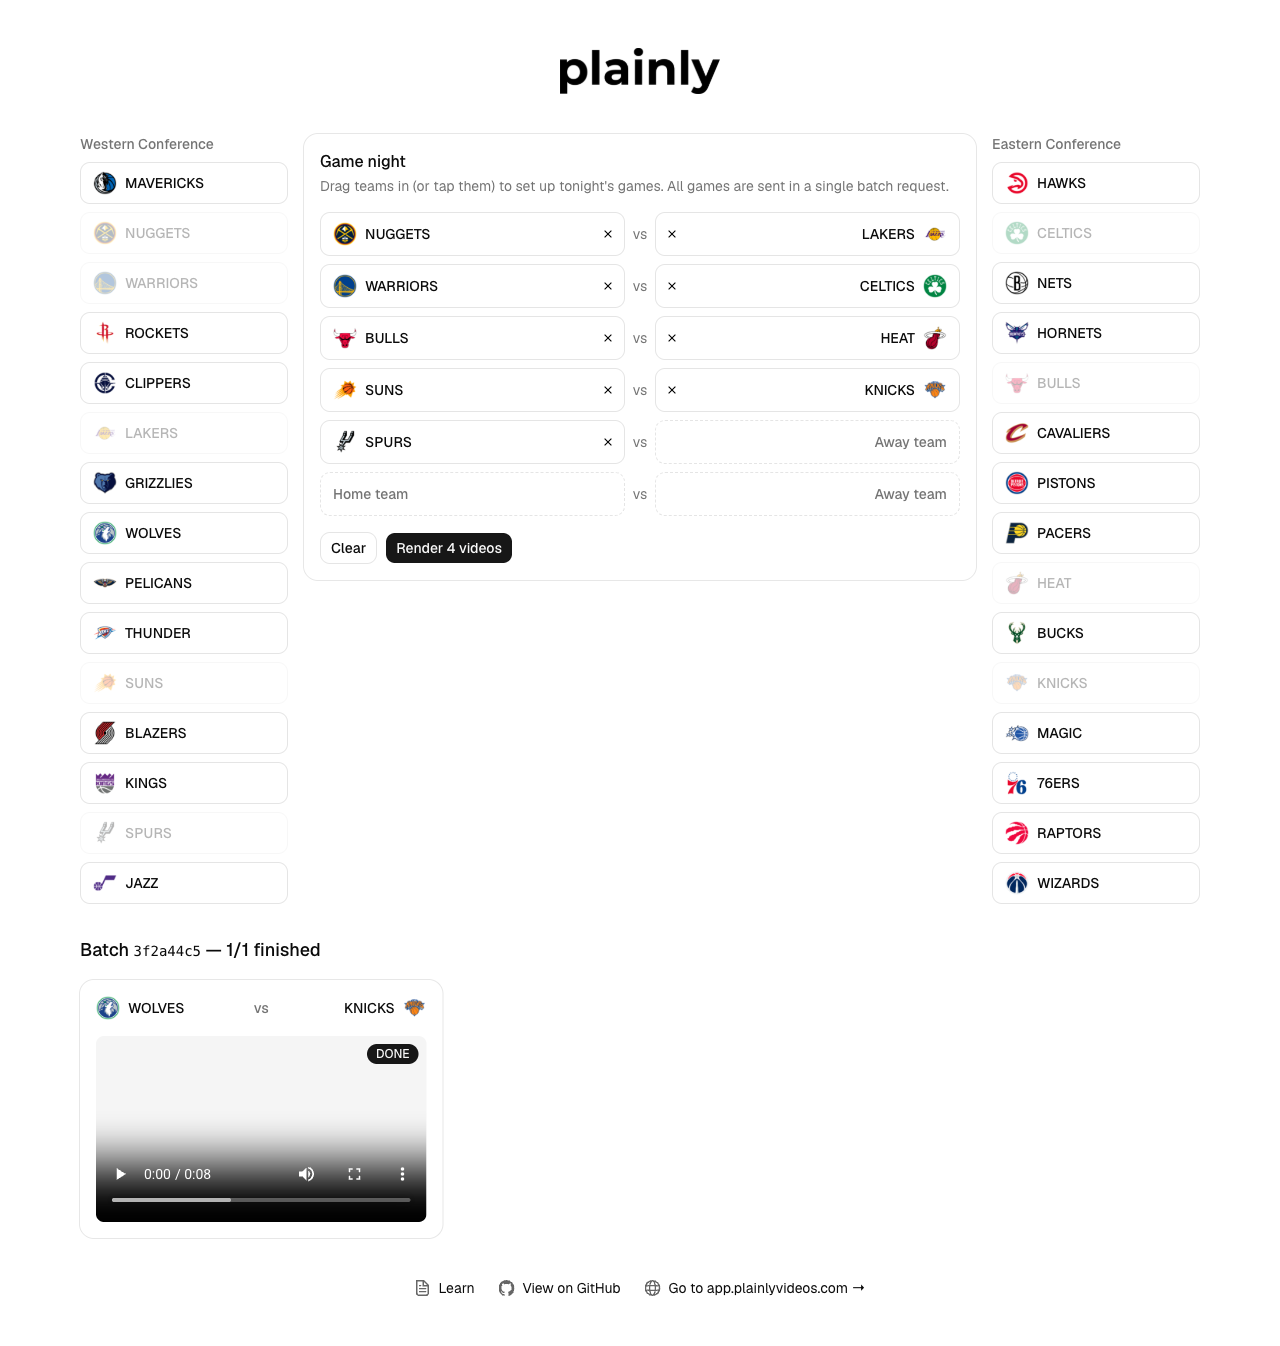
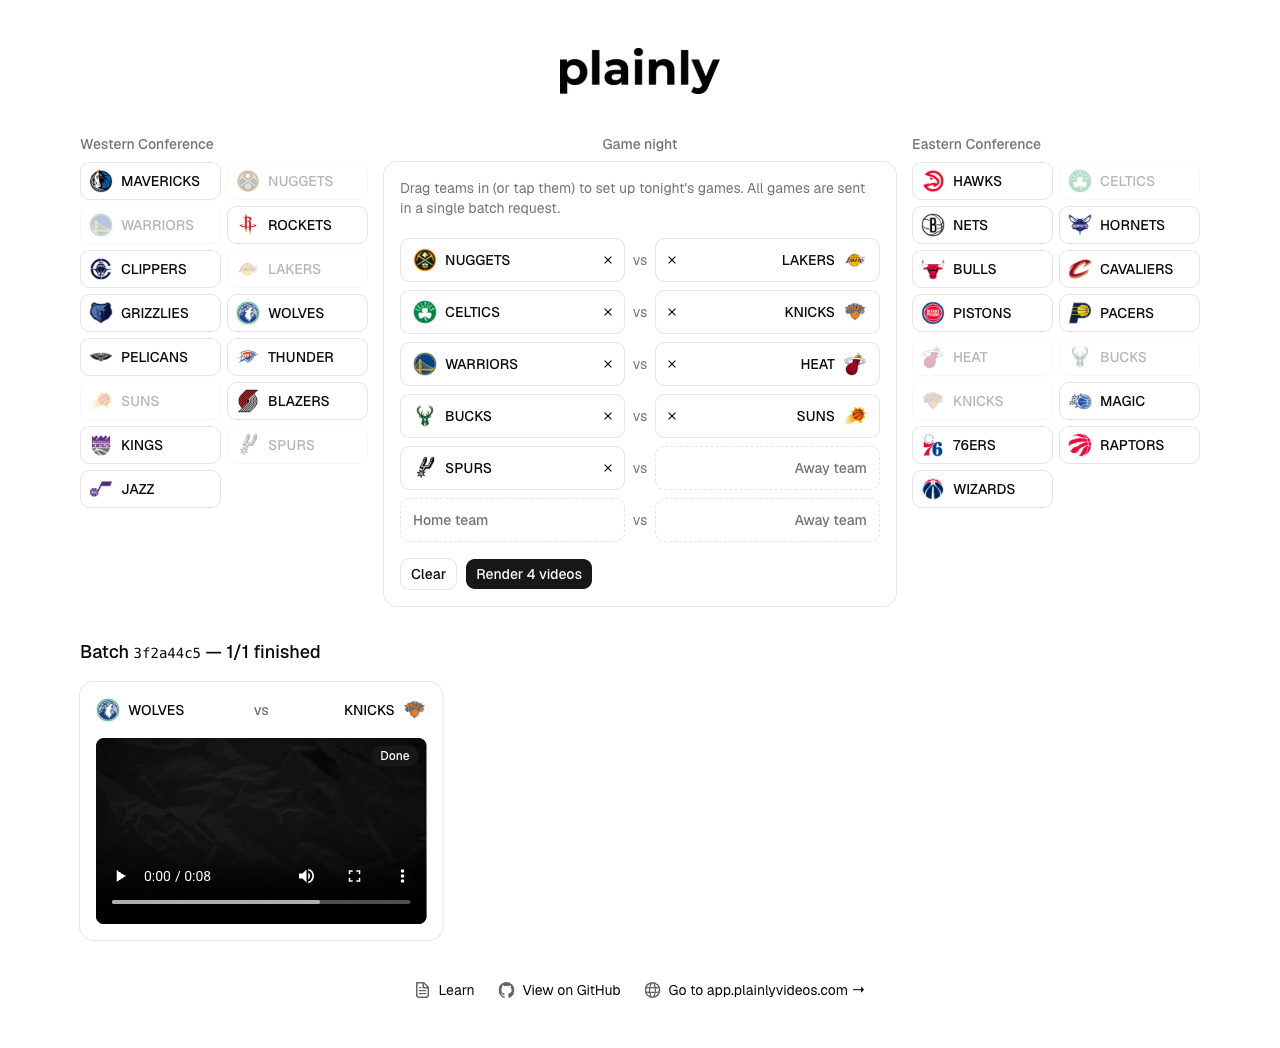
feat(batch-render): two-column team lists, readable render states, centered Game night heading

diff --git a/plainly-batch-render/src/components/game-night.tsx b/plainly-batch-render/src/components/game-night.tsx
@@ -10,7 +10,6 @@ import {
   CardContent,
   CardDescription,
   CardHeader,
-  CardTitle,
 } from "@/components/ui/card";
 import { createBatch } from "@/lib/plainly";
 import {
@@ -67,66 +66,71 @@ export function GameNight() {
         place(source.id, target.data as Slot);
       }}
     >
-      <div className="grid gap-4 lg:grid-cols-[13rem_1fr_13rem]">
+      <div className="grid gap-4 lg:grid-cols-[18rem_1fr_18rem]">
         <ConferenceList
           title="Western Conference"
           conference="west"
           playing={playing}
           onPick={place}
         />
-        <Card className="order-first lg:order-none lg:self-start">
-          <CardHeader>
-            <CardTitle>Game night</CardTitle>
-            <CardDescription>
-              Drag teams in (or tap them) to set up tonight's games. All games
-              are sent in a single batch request.
-            </CardDescription>
-          </CardHeader>
-          <CardContent>
-            <form className="grid gap-4" onSubmit={handleSubmit}>
-              {error && (
-                <Alert variant="destructive">
-                  <AlertTitle>Failed to create batch</AlertTitle>
-                  <AlertDescription>{error}</AlertDescription>
-                </Alert>
-              )}
-              <div className="grid gap-2">
-                {games.map((game, index) => (
-                  <GameRow
-                    // Games only get added at the end or removed, so the index is stable enough
-                    // biome-ignore lint/suspicious/noArrayIndexKey: games have no id of their own
-                    key={index}
-                    game={game}
-                    index={index}
-                    onRemove={remove}
-                  />
-                ))}
-                {/* Everyone plays once, so 30 teams make at most 15 games */}
-                {playing.size < teamIds.length && (
-                  <GameRow game={{}} index={games.length} onRemove={remove} />
+        {/* Same heading row as the conferences, so all three cards line up */}
+        <section className="order-first grid content-start gap-2 lg:order-none">
+          <h2 className="text-center text-sm font-medium text-muted-foreground">
+            Game night
+          </h2>
+          <Card>
+            <CardHeader>
+              <CardDescription>
+                Drag teams in (or tap them) to set up tonight's games. All games
+                are sent in a single batch request.
+              </CardDescription>
+            </CardHeader>
+            <CardContent>
+              <form className="grid gap-4" onSubmit={handleSubmit}>
+                {error && (
+                  <Alert variant="destructive">
+                    <AlertTitle>Failed to create batch</AlertTitle>
+                    <AlertDescription>{error}</AlertDescription>
+                  </Alert>
                 )}
-              </div>
-              <div className="flex gap-2">
-                <Button
-                  type="button"
-                  variant="outline"
-                  disabled={games.length === 0}
-                  onClick={() => setGames([])}
-                >
-                  Clear
-                </Button>
-                <Button
-                  type="submit"
-                  disabled={complete.length === 0 || submitting}
-                >
-                  {submitting
-                    ? "Creating batch…"
-                    : `Render ${complete.length} video${complete.length === 1 ? "" : "s"}`}
-                </Button>
-              </div>
-            </form>
-          </CardContent>
-        </Card>
+                <div className="grid gap-2">
+                  {games.map((game, index) => (
+                    <GameRow
+                      // Games only get added at the end or removed, so the index is stable enough
+                      // biome-ignore lint/suspicious/noArrayIndexKey: games have no id of their own
+                      key={index}
+                      game={game}
+                      index={index}
+                      onRemove={remove}
+                    />
+                  ))}
+                  {/* Everyone plays once, so 30 teams make at most 15 games */}
+                  {playing.size < teamIds.length && (
+                    <GameRow game={{}} index={games.length} onRemove={remove} />
+                  )}
+                </div>
+                <div className="flex gap-2">
+                  <Button
+                    type="button"
+                    variant="outline"
+                    disabled={games.length === 0}
+                    onClick={() => setGames([])}
+                  >
+                    Clear
+                  </Button>
+                  <Button
+                    type="submit"
+                    disabled={complete.length === 0 || submitting}
+                  >
+                    {submitting
+                      ? "Creating batch…"
+                      : `Render ${complete.length} video${complete.length === 1 ? "" : "s"}`}
+                  </Button>
+                </div>
+              </form>
+            </CardContent>
+          </Card>
+        </section>
         <ConferenceList
           title="Eastern Conference"
           conference="east"
@@ -152,7 +156,7 @@ function ConferenceList({
   return (
     <section className="grid content-start gap-2">
       <h2 className="text-sm font-medium text-muted-foreground">{title}</h2>
-      <div className="grid grid-cols-2 gap-2 sm:grid-cols-3 lg:grid-cols-1">
+      <div className="grid grid-cols-2 gap-1.5 sm:grid-cols-3 lg:grid-cols-2">
         {teamIds
           .filter((id) => teams[id].conference === conference)
           .map((id) => (
@@ -186,7 +190,7 @@ function TeamTile({
       disabled={playing}
       onClick={onPick}
       className={cn(
-        "flex items-center gap-2 rounded-lg border bg-card px-3 py-2 text-left text-sm font-medium",
+        "flex min-w-0 items-center gap-2 rounded-lg border bg-card px-2 py-1.5 text-left text-sm font-medium",
         playing
           ? "opacity-30"
           : "cursor-grab hover:bg-muted active:cursor-grabbing",

diff --git a/plainly-batch-render/src/components/render-grid.tsx b/plainly-batch-render/src/components/render-grid.tsx
@@ -2,7 +2,7 @@ import { LoaderCircle } from "lucide-react";
 import { Matchup } from "@/components/matchup";
 import { Badge } from "@/components/ui/badge";
 import { Card, CardContent, CardHeader } from "@/components/ui/card";
-import { isFinished, type Render } from "@/lib/batch";
+import { isFinished, type Render, stateLabel } from "@/lib/batch";
 import { isTeamId, teams } from "@/teams";
 
 function stateVariant(state: string) {
@@ -73,7 +73,7 @@ export function RenderGrid({
                     variant={stateVariant(render.state)}
                     className="absolute top-2 right-2 z-10"
                   >
-                    {render.state}
+                    {stateLabel(render.state)}
                   </Badge>
                   <RenderPreview render={render} />
                 </div>

diff --git a/plainly-batch-render/src/lib/batch.ts b/plainly-batch-render/src/lib/batch.ts
@@ -16,6 +16,10 @@ const IN_PROGRESS_STATES = ["PENDING", "THROTTLED", "QUEUED", "IN_PROGRESS"];
 export const isFinished = (render: Pick<Render, "state">) =>
   !IN_PROGRESS_STATES.includes(render.state);
 
+// IN_PROGRESS -> "In progress", for people instead of the API
+export const stateLabel = (state: string) =>
+  state.charAt(0) + state.slice(1).toLowerCase().replaceAll("_", " ");
+
 // Plainly batch ids are UUIDs, anything else never reaches the API
 export const isBatchId = (id: string) =>
   /^[0-9a-f]{8}-[0-9a-f]{4}-[0-9a-f]{4}-[0-9a-f]{4}-[0-9a-f]{12}$/i.test(id);

diff --git a/plainly-batch-render/src/lib/batch.test.ts b/plainly-batch-render/src/lib/batch.test.ts
@@ -4,6 +4,7 @@ import {
   isBatchId,
   isFinished,
   pickGames,
+  stateLabel,
   toBatchData,
 } from "@/lib/batch";
 
@@ -70,4 +71,9 @@ test("toBatchData maps a game to the template parameters", () => {
       plainlyEditLogo2: "https://a.espncdn.com/i/teamlogos/nba/500/lal.png",
     },
   });
+});
+
+test("stateLabel turns API states into readable text", () => {
+  expect(stateLabel("DONE")).toBe("Done");
+  expect(stateLabel("IN_PROGRESS")).toBe("In progress");
 });
